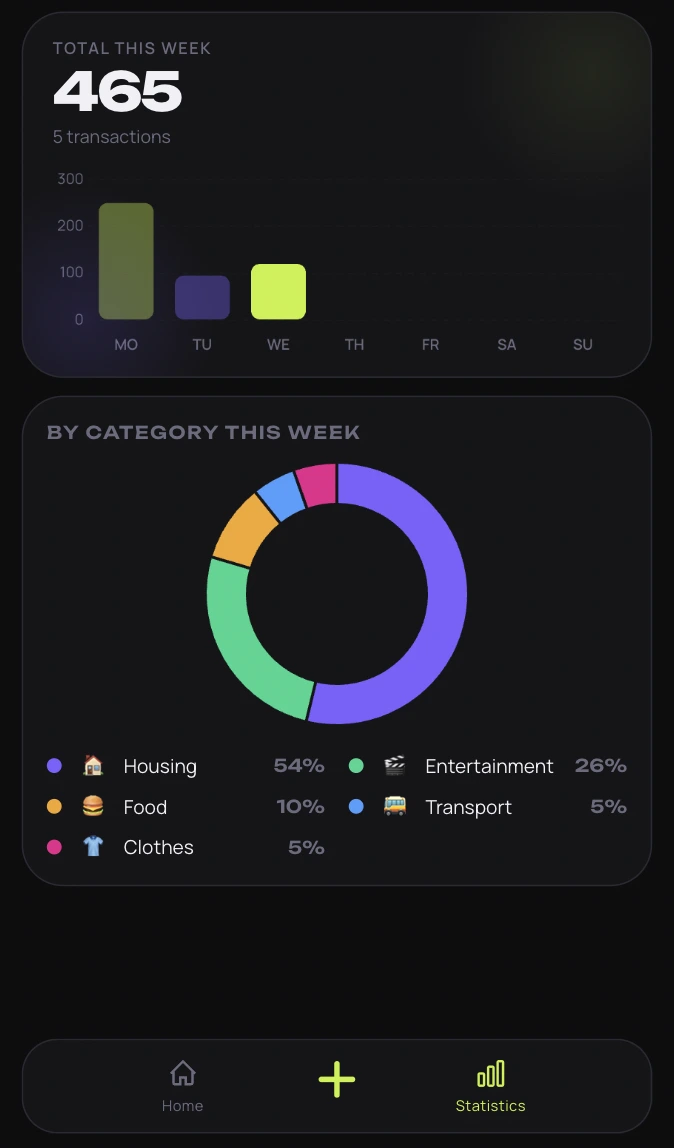
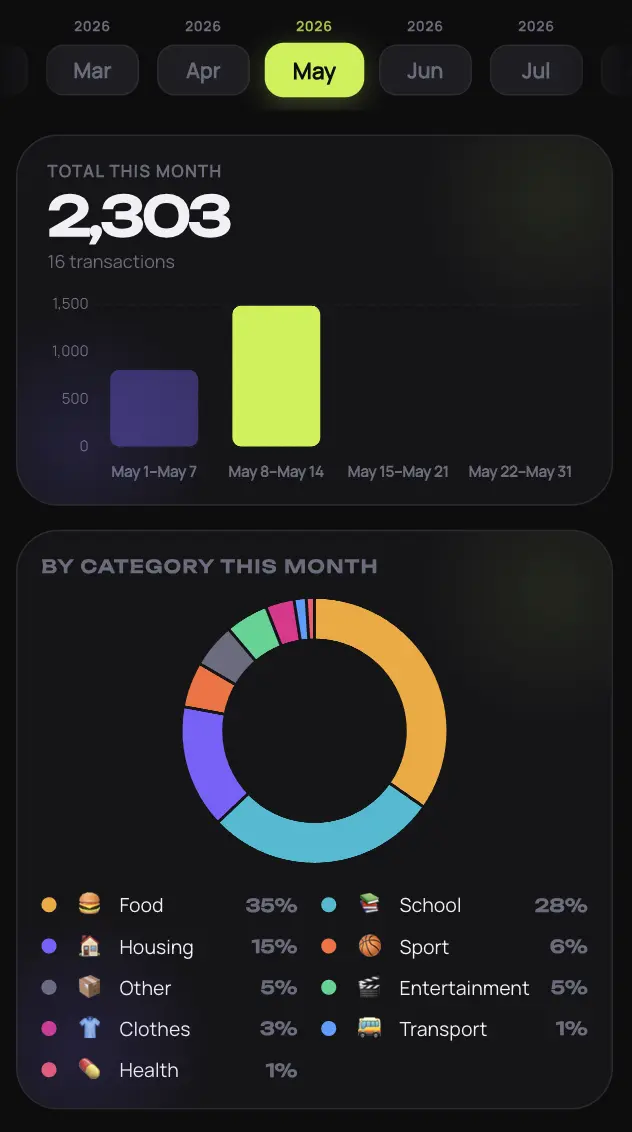
Update files

diff --git a/public/features.html b/public/features.html
@@ -383,7 +383,7 @@
       <a class="toc-link" href="#edit-delete"><span class="toc-icon">✏️</span>Edit or delete anytime</a>
       <a class="toc-link" href="#donut-chart"><span class="toc-icon">🍩</span>Category breakdown</a>
       <a class="toc-link" href="#filter-category"><span class="toc-icon">🗂️</span>Filter by category</a>
-      <a class="toc-link" href="#time-frames"><span class="toc-icon">📅</span>Week · Month · Year</a>
+      <a class="toc-link" href="#time-frames"><span class="toc-icon">📅</span>Month analytics</a>
       <a class="toc-link" href="#your-sheet"><span class="toc-icon">🔐</span>Your Google Sheet</a>
       <a class="toc-link" href="#share-partner"><span class="toc-icon">🔗</span>Share with a partner</a>
     </div>
@@ -523,17 +523,17 @@
         <div class="section-headline">Bar chart by period</div>
       </div>
     </div>
-    <p>Numbers in a list tell you what you spent. A bar chart tells you when and how your spending behaves over time. SpenGo's statistics screen renders a bar chart for the selected time frame so you can spot patterns and outliers instantly.</p>
+    <p>Numbers in a list tell you what you spent. A bar chart tells you when and how your spending behaves over time. SpenGo's statistics screen renders a bar chart for the selected calendar month so you can spot patterns and outliers instantly.</p>
     <ul class="detail-list">
-      <li>Each bar represents one unit of time — a day within the current week, a week within the month, or a month within the year.</li>
+      <li>The month is split into four fixed week bands — 1–7, 8–14, 15–21, and 22 to end of month.</li>
+      <li>The current week's bar is highlighted in the accent colour; earlier bars are shown in dimmed tones.</li>
       <li>The tallest bar is always the highest-spending period — easy to identify at a glance.</li>
-      <li>Bars are colour-coded by the dominant category of that period, so you can see what drove the spike.</li>
-      <li>Switch between Week, Month, and Year with a single tap — the chart re-renders instantly with no loading delay.</li>
+      <li>Switching months in the carousel re-renders the chart instantly with no loading delay.</li>
     </ul>
     <div class="pill-row">
-      <span class="pill accent">Daily view in Week mode</span>
-      <span class="pill accent">Weekly view in Month mode</span>
-      <span class="pill accent">Monthly view in Year mode</span>
+      <span class="pill accent">4 week bands per month</span>
+      <span class="pill accent">Current week highlighted</span>
+      <span class="pill accent">Instant re-render on month switch</span>
     </div>
   </div>
 
@@ -551,7 +551,7 @@
       <li>Every category with at least one expense in the selected period appears as a coloured segment.</li>
       <li>Percentage labels show exactly how much of your budget each category consumed.</li>
       <li>A ranked list below the chart shows the absolute amount per category, sorted from highest to lowest.</li>
-      <li>The chart updates instantly when you switch between Week, Month, and Year — no refresh needed.</li>
+      <li>The chart updates instantly when you switch months in the carousel — no refresh needed.</li>
     </ul>
     <div class="pill-row">
       <span class="pill accent">Percentage labels</span>
@@ -560,26 +560,26 @@
     </div>
   </div>
 
-  <!-- 8. Week Month Year -->
+  <!-- 8. Month carousel -->
   <div class="section" id="time-frames">
     <div class="section-head">
       <div class="section-emoji">📅</div>
       <div class="section-meta">
         <h2>Statistics insights</h2>
-        <div class="section-headline">Week · Month · Year</div>
+        <div class="section-headline">Month analytics</div>
       </div>
     </div>
-    <p>Different questions need different time windows. Are you overspending this week? How did this month compare to last? SpenGo's time-frame selector lets you answer all of them without navigating away from the stats screen.</p>
+    <p>Scrolling through your spending history should feel natural, not like filling out a form. Switch to any past month and instantly see the full picture: total spent, a bar chart broken into week bands, and a category breakdown. No date pickers, no exports — just tap a month and the data is there.</p>
     <ul class="detail-list">
-      <li>Week — shows the current 7-day window; great for catching short-term overspending early.</li>
-      <li>Month — tracks the current calendar month; useful for monthly budget goals.</li>
-      <li>Year — shows all 12 months of the current year; reveals seasonal spending patterns.</li>
-      <li>Tap the back and forward arrows to step through previous periods — compare this month vs. last month with one tap.</li>
-      <li>Both the bar chart and the donut chart update together when you change the time frame or navigate to a different period.</li>
+      <li>Open any past month to see its total spending, week-by-week bar chart, and category breakdown.</li>
+      <li>Both the bar chart and donut chart update together — the full picture in one tap.</li>
+      <li>The current month opens by default; past months are always one swipe away.</li>
+      <li>Each month shows the year label so you always know exactly where you are in time.</li>
     </ul>
     <div class="pill-row">
-      <span class="pill accent">Navigate to past periods</span>
-      <span class="pill accent">Bar + donut sync automatically</span>
+      <span class="pill accent">Any month, instantly</span>
+      <span class="pill accent">Bar chart + category breakdown</span>
+      <span class="pill accent">No exports or date pickers needed</span>
     </div>
   </div>
 

diff --git a/src/ui/components/AuthScreen.jsx b/src/ui/components/AuthScreen.jsx
@@ -159,6 +159,30 @@ export function AuthScreen({ onSignIn, loading, error }) {
                 </div>
             </div>
 
+            {/* ── Mobile-only second CTA — visible only on small screens via CSS ── */}
+            <div className="auth-mobile-cta">
+                <button
+                    className="btn-google"
+                    onClick={handleSignIn}
+                    disabled={isDisabled}
+                >
+                    <svg width="20" height="20" viewBox="0 0 48 48">
+                        <path fill="#FFC107" d="M43.6 20.1H42V20H24v8h11.3C33.7 32.7 29.3 36 24 36c-6.6 0-12-5.4-12-12s5.4-12 12-12c3.1 0 5.8 1.2 7.9 3.1l5.7-5.7C34.4 6.5 29.5 4 24 4 12.9 4 4 12.9 4 24s8.9 20 20 20 20-8.9 20-20c0-1.3-.1-2.6-.4-3.9z"/>
+                        <path fill="#FF3D00" d="M6.3 14.7l6.6 4.8C14.7 16.1 19 13 24 13c3.1 0 5.8 1.2 7.9 3.1l5.7-5.7C34.4 6.5 29.5 4 24 4 16.3 4 9.7 8.3 6.3 14.7z"/>
+                        <path fill="#4CAF50" d="M24 44c5.3 0 10.1-2 13.7-5.2l-6.3-5.4C29.5 35.2 26.9 36 24 36c-5.3 0-9.6-3.3-11.3-7.9l-6.5 5C9.6 39.6 16.3 44 24 44z"/>
+                        <path fill="#1976D2" d="M43.6 20.1H42V20H24v8h11.3c-.8 2.2-2.3 4.1-4.2 5.4l6.3 5.4C37 38.2 44 33 44 24c0-1.3-.1-2.6-.4-3.9z"/>
+                    </svg>
+                    <span>
+                        {isDisabled
+                            ? getI18nValue('btn.saving')
+                            : getI18nValue('auth.btn')
+                        }
+                    </span>
+                </button>
+                {error && (
+                    <div className="auth-error-box">{error}</div>
+                )}
+            </div>
         </div>
     );
 }

diff --git a/src/styles.css b/src/styles.css
@@ -1977,3 +1977,24 @@ html {
     border-radius: 50%;
     background: var(--color-accent);
 }
+
+/* ───────────────────────────────────────────────────────────────────
+   §25  AUTH — MOBILE-ONLY SECOND SIGN-IN CTA
+   Shown below all feature panels on mobile; hidden on desktop where
+   the center panel already has the button.
+   ─────────────────────────────────────────────────────────────────── */
+
+.auth-mobile-cta {
+    display: flex;
+    flex-direction: column;
+    align-items: center;
+    gap: 12px;
+    padding: 28px 24px 40px;
+    border-top: 1px solid var(--color-border);
+    order: 3;          /* after left(1) and right(2) panels */
+    width: 100%;
+}
+
+@media (min-width: 900px) {
+    .auth-mobile-cta { display: none; }
+}

diff --git a/public/privacy-policy.html b/public/privacy-policy.html
@@ -405,6 +405,16 @@
         <td data-label="Contents">Email address of the spreadsheet owner</td>
         <td data-label="Purpose">Allows the app to show the correct owner/guest state in the profile screen without an extra API call. Cleared on sign-out.</td>
       </tr>
+      <tr>
+        <td data-label="Key"><code>spengo-theme</code></td>
+        <td data-label="Contents"><code>"dark"</code> or <code>"light"</code></td>
+        <td data-label="Purpose">Persists your chosen colour theme across sessions. Cleared when you clear browser site data.</td>
+      </tr>
+      <tr>
+        <td data-label="Key"><code>spengo_anon_id</code></td>
+        <td data-label="Contents">A randomly generated UUID (e.g. <code>7576dd17-…</code>)</td>
+        <td data-label="Purpose">Anonymous identifier used solely to enforce a rate limit on the in-app feedback form. Never linked to your identity or transmitted to any server — evaluated client-side only.</td>
+      </tr>
       </tbody>
     </table>
     <p style="margin-top:14px;"><strong>Browser sessionStorage:</strong> Your OAuth access token and its expiry timestamp are stored in <code>sessionStorage</code> for the duration of your browser session. This data is automatically cleared when the tab or browser is closed.</p>